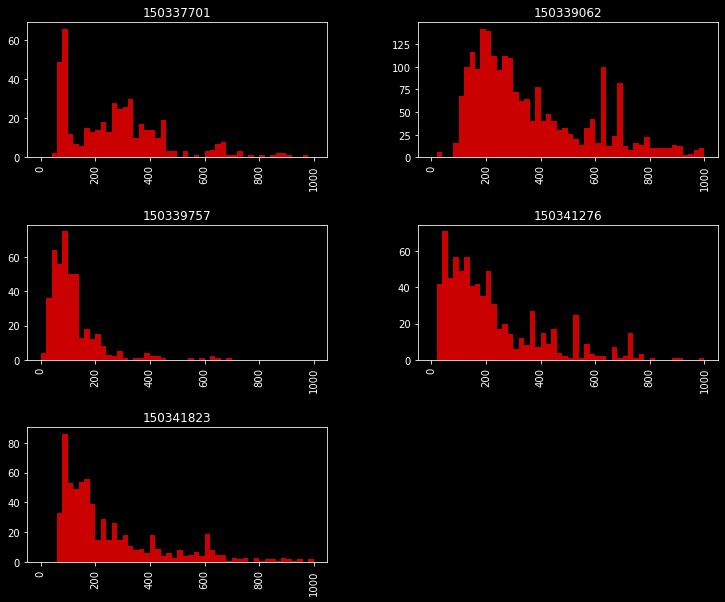
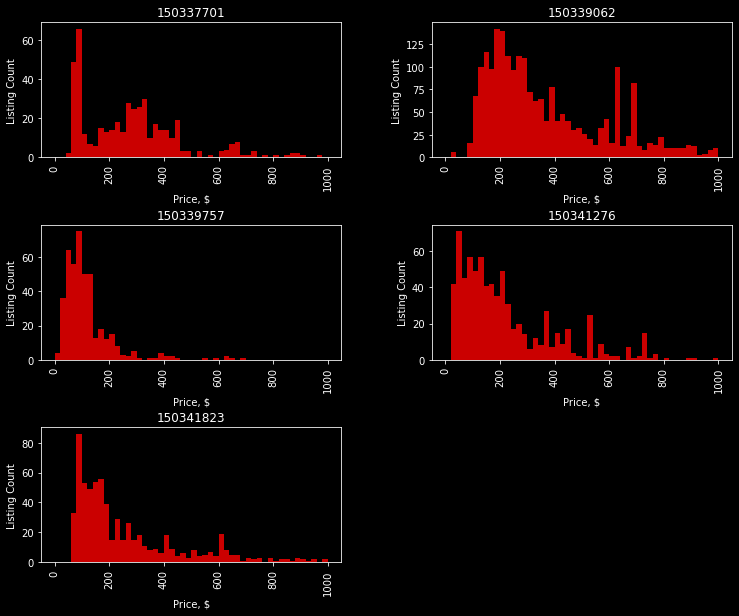
updated readme

Changed region(s): [[0.0, 0.0, 0.4552, 1.0], [0.5159, 0.0, 1.0, 0.6578]]

diff --git a/README.md b/README.md
@@ -1,5 +1,5 @@
 
-[![Language](https://img.shields.io/badge/language-R-blue)](https://img.shields.io/badge/language-Python-blue)
+[![Language](https://img.shields.io/badge/language-Python-blue)](https://img.shields.io/badge/language-Python-blue)
 [![GitHub issues](https://img.shields.io/github/issues/KobaKhit/listing-scraper)](https://github.com/KobaKhit/listing-scraper/issues)
 [![GitHub forks](https://img.shields.io/github/forks/KobaKhit/listing-scraper)](https://github.com/KobaKhit/listing-scraper/network)
 [![GitHub stars](https://img.shields.io/github/stars/KobaKhit/listing-scraper)](https://github.com/KobaKhit/listing-scraper/stargazers)
@@ -8,7 +8,7 @@
 
 A Python wrapper for scraping listings from major ticket exchanges. You can see the tutorial for Stubhub in the [Stubhub API.ipynb](https://nbviewer.jupyter.org/github/KobaKhit/stubhubAPI/blob/master/Stubhub%20API%20Tutorial.ipynb)
 
-**Listing Prices by Event**
+**Histograms of Listing Prices by Event**
 
 ![png](readme_plots/ticket_price_by_eventid.png)
 
@@ -21,5 +21,3 @@ A Python wrapper for scraping listings from major ticket exchanges. You can see 
     - [ ] TicketMaster - might be tricky
   - [ ] Documentation
   - [ ] Tests
-
-
